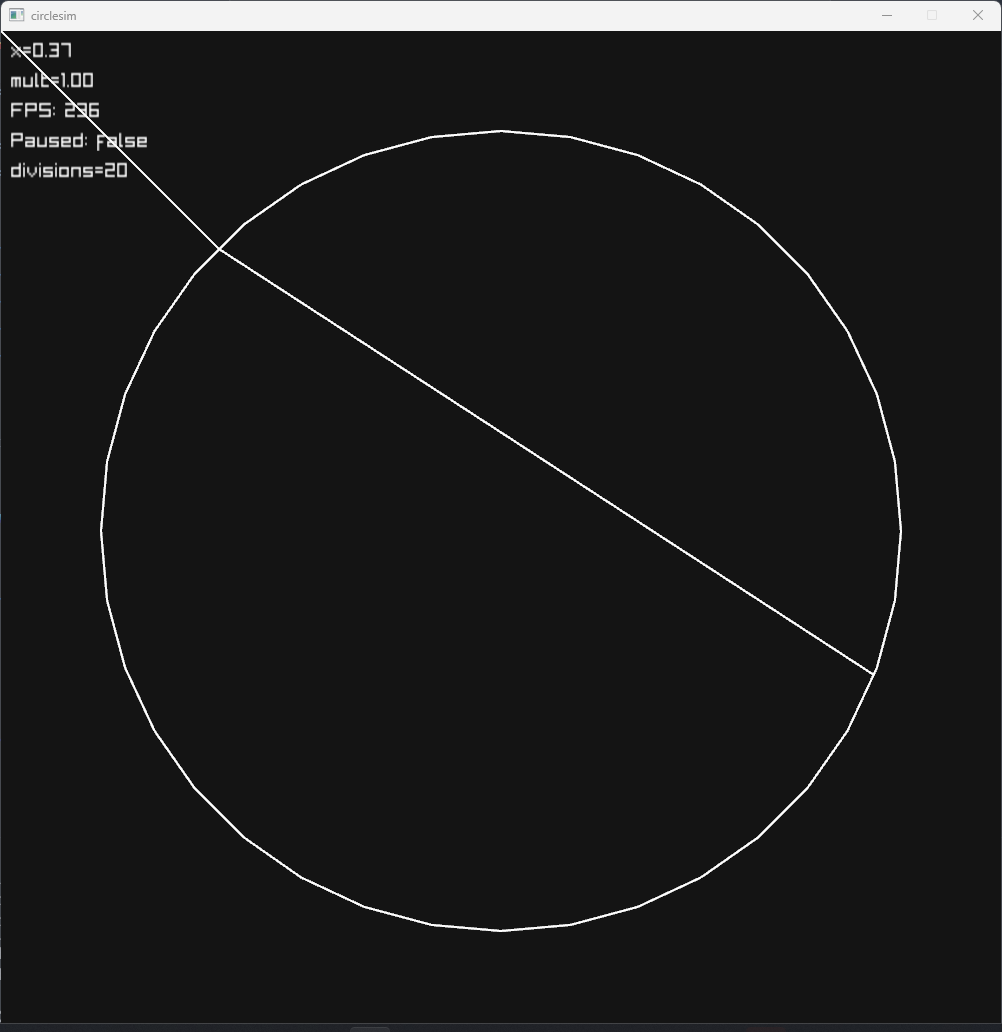
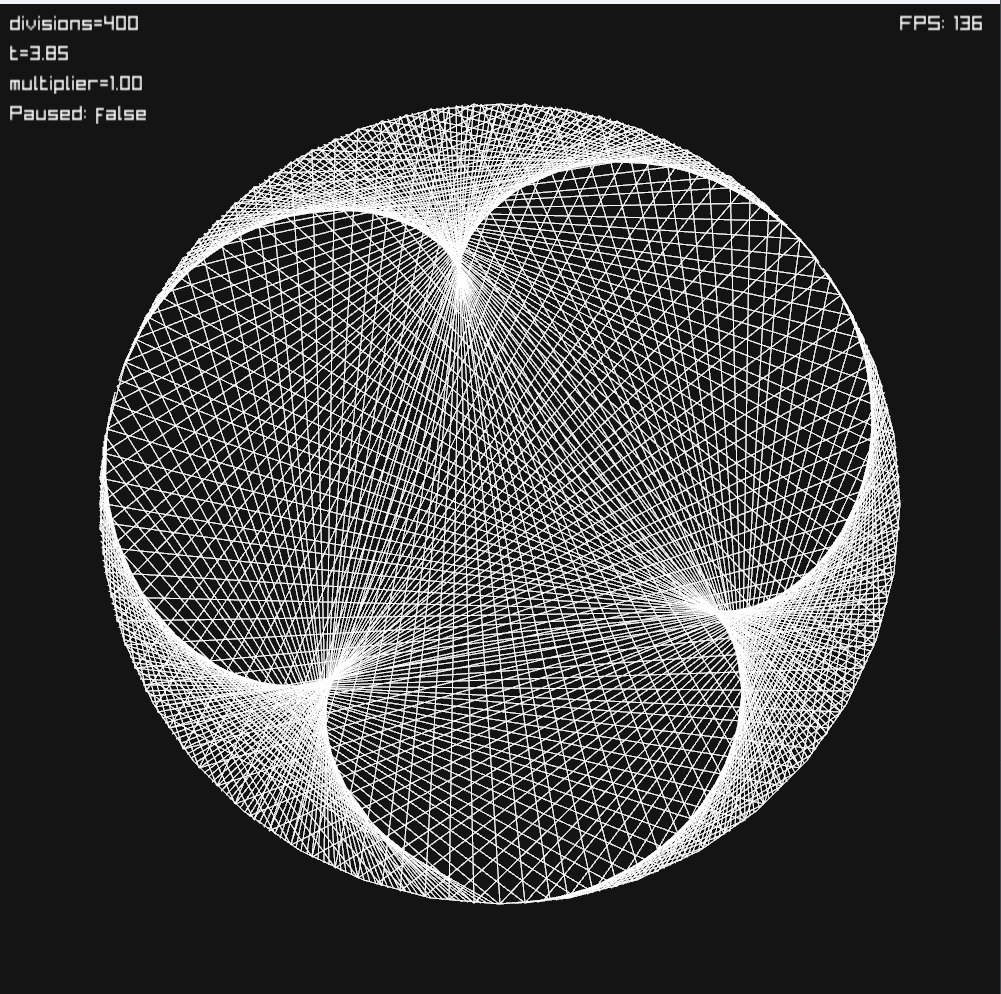
"update readme"

diff --git a/main.go b/main.go
@@ -11,7 +11,7 @@ import (
 const LineWidth = 1
 const Radius = 400
 
-var div = 100  // Number of divisions/lines
+var div = 400  // Number of divisions/lines
 var mult = 1.0 // Frame multiplier
 
 var t = 0.0        // The frame counter

diff --git a/readme.md b/readme.md
@@ -1,9 +1,10 @@
 # circlesim
 This is a simulation / math function visualizer that uses a circle.
+This is inspired by [Visual Alchemy](https://www.youtube.com/@visual-alchemy)'s videos.
 
 # controls
 Set divisions with MouseWheel
 Set speed with Shift+MouseWheel
 
 # screenshots
-![Mod function](image.png)
+![Multiplication](image.png)
